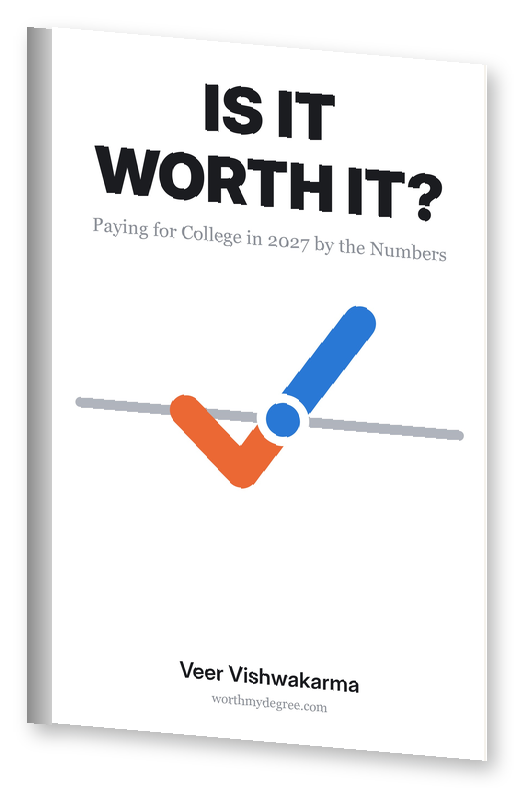
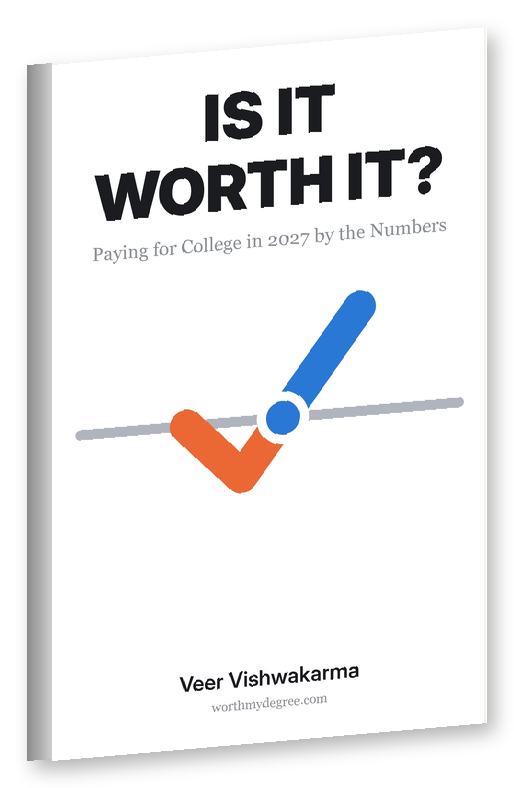
The mockup slopes up
The author's call: the shear now rises from the spine to the outer
edge. Sloping down reads as a book lying face up on a desk; sloping up
reads as one standing and turned toward the viewer, which is what a
shelf shows. The spine and the page edge follow it.

🤖 Generated with [Claude Code](https://claude.com/claude-code)

Claude-Session: https://claude.ai/code/session_012DeoHPSB76aTuNVN2G12N4

diff --git a/brand/build_book_mockup.py b/brand/build_book_mockup.py
@@ -19,10 +19,9 @@ much each contributes:
      sliver of spine down the left is the whole illusion, and it is drawn in
      the cover's own edge colour darkened, so it cannot clash with art it was
      sampled from.
-  2. The VERTICAL SHEAR. The front panel's far edge is shorter than its near
-     edge, which is what a camera does to a rectangle turned a few degrees.
-     Pillow's QUAD transform does it exactly: give it the four corners the
-     panel should land on and it solves the mapping.
+  2. The VERTICAL SHEAR, sloping UP from the spine to the outer edge. A
+     column shear is the whole effect; the direction is what decides whether
+     the object reads as standing (up) or lying on a desk (down).
   3. The SHADOW, offset down and right, blurred. Without it the object floats.
      Drawn on its own layer and composited, never painted over the cover.
   4. The PAGE EDGE, a two-pixel cream line inside the right edge. Small, and
@@ -87,7 +86,7 @@ def build(width: int = WIDTH) -> Path:
     spine_w = round(width * SPINE_W)
     face_w = width - spine_w
     face_h = round(face_w * ratio)
-    drop = round(face_h * TILT)          # how far the near edge hangs lower
+    drop = round(face_h * TILT)          # how far the outer edge rides higher
     pad = SHADOW_BLUR * 3                # room for the blur to fall into
     canvas_w, canvas_h = width + pad * 2, face_h + drop + pad * 2
 
@@ -97,21 +96,23 @@ def build(width: int = WIDTH) -> Path:
     # author's name and the URL came off the bottom of the cover. A column
     # shear alone is the whole effect, so that is all it does now.
     #
-    # Every column x slides down by drop * x / face_w, so the far (left) edge
-    # sits high and the near (right) edge low, which is a rectangle turned a
-    # few degrees toward the viewer.
+    # SLOPING UP, the author's call 2026-09-22: column x rises by
+    # drop * x / face_w, so the spine edge sits LOW and the outer edge high.
+    # The first version sloped the other way, which reads as a book lying
+    # face up on a desk; this one reads as a book standing and turned toward
+    # the viewer, which is what a shelf or a shop listing shows.
     flat = cover.convert("RGBA").resize((face_w, face_h), Image.LANCZOS)
     face = Image.new("RGBA", (face_w, face_h + drop), (0, 0, 0, 0))
     for x in range(face_w):
         face.paste(flat.crop((x, 0, x + 1, face_h)),
-                   (x, round(drop * x / face_w)))
+                   (x, drop - round(drop * x / face_w)))
 
     ink = edge_colour(cover)
-    # THE SPINE, a parallelogram: its top rises as it goes left, mirroring the
-    # front's far edge, so the two share one silhouette.
+    # THE SPINE, a parallelogram whose top follows the front's, so the two
+    # share one silhouette: it is the LOW end now that the face slopes up.
     spine = Image.new("RGBA", (spine_w, face_h + drop), (0, 0, 0, 0))
     for x in range(spine_w):
-        top = round(drop * x / (spine_w + face_w))
+        top = drop - round(drop * x / (spine_w + face_w))
         for y in range(top, top + face_h):
             # A gradient across the spine, darkest at the fold, which is what
             # a curved paper spine does to light.
@@ -125,7 +126,7 @@ def build(width: int = WIDTH) -> Path:
     # THE PAGE EDGE: two columns of near-white just inside the right edge,
     # following the same slope as the cover beside them.
     for x in range(width - 3, width - 1):
-        top = round(drop * x / width)
+        top = drop - round(drop * x / width)
         for y in range(top, top + face_h):
             book.putpixel((x, y), (246, 243, 237, 255))
 
